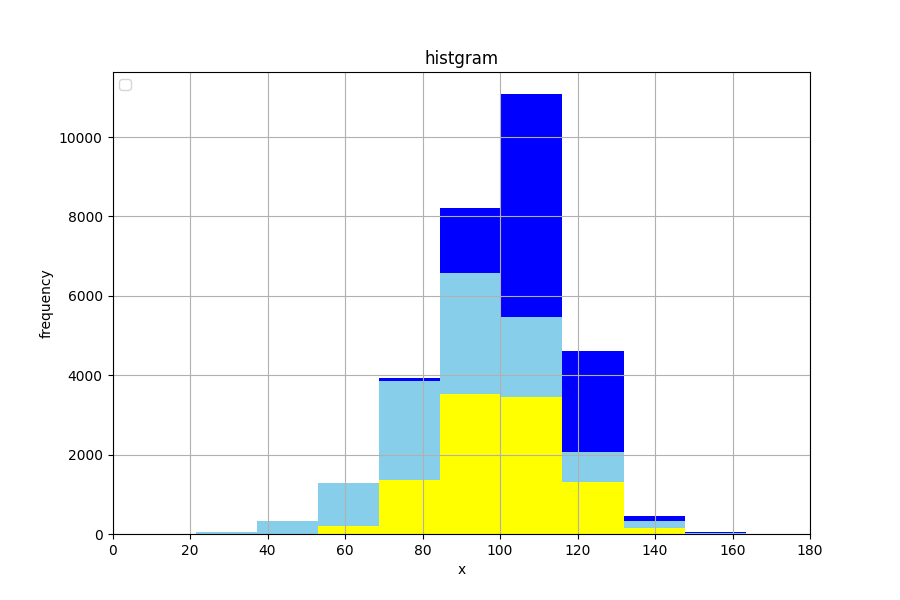
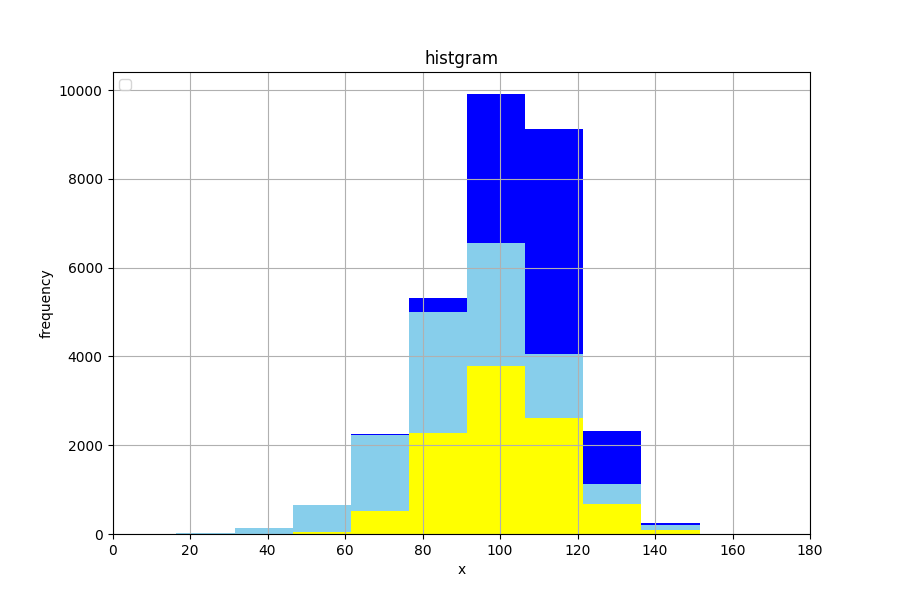
積み上げヒストグラムの仕様確認を追記

diff --git a/20.py b/20.py
@@ -14,7 +14,10 @@ fig = plt.figure(figsize=(9,6))
 
 ax1 = fig.add_subplot(111, title='histgram', xlabel='x', ylabel='frequency',
                       xlim=(0,180))
-ax1.hist([x1,x2,x3],color=['yellow','skyblue','blue'], stacked=True)
+# こう書くとstackedした際にBinの幅が一致する
+ax1.hist([x1,x2,x3],color=['yellow','skyblue','blue'], stacked=True, bins=10)
+
+# こう書くとBinの幅が一致しない
 # ax1.hist(x1, bins=10, color='yellow',label='x1',zorder=10,stacked=True, density = True)
 # ax1.hist(x2, bins=10, color='skyblue',label='x2',zorder=5,stacked=True, density = True)
 # ax1.hist(x3, bins=10, color='blue',label='x3',zorder=1,stacked=True, density = True)
